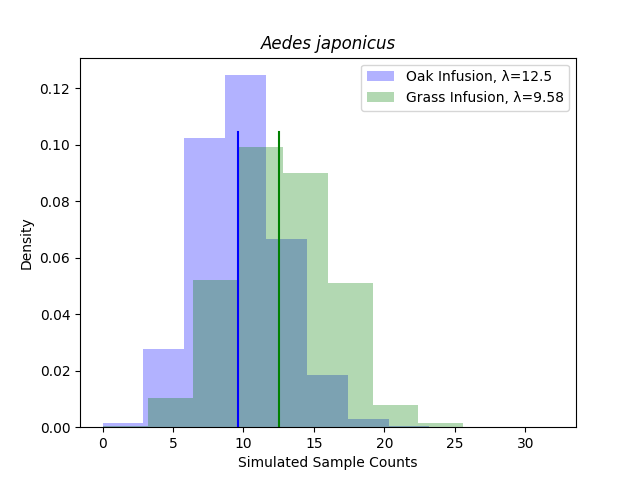
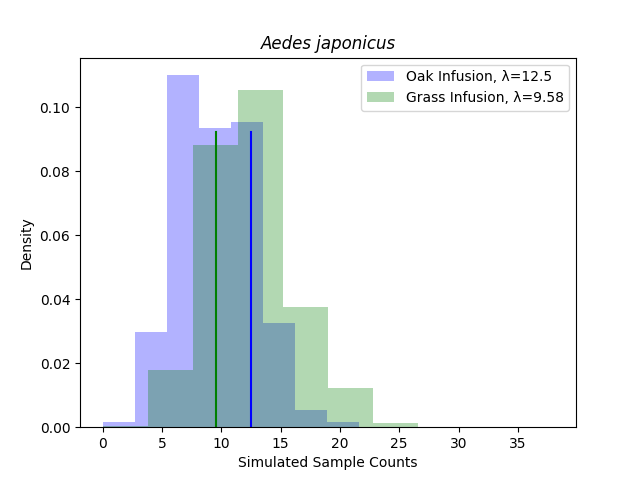
fixed an error that reversed lambdas on figure legends

diff --git a/src/japonicus.py b/src/japonicus.py
@@ -15,7 +15,7 @@ rate_2 = np.random.poisson(lambda_estimate_grass1, 1000000)
 
 bins = np.arange(0, 40)
 
-plt.hist(japonicus.oak_by_date, bins=bins, color='blue', alpha=0.3, label=f'Oak Data', density=True)
+plt.hist(japonicus.oak_by_date, bins=bins, color='blue', alpha=0.3, label=f'Oak Data (n={len(japonicus.oak_data)})', density=True)
 plt.hist(rate_1, color='green', bins=bins, alpha=0.3, label=f'Simulated Oak Data, \u03BB={round(lambda_estimate_oak1, 2)}', density=True)
 plt.axvline(lambda_estimate_oak1, color='blue', ymax=0.8)
 plt.title("Aedes japonicus", style='italic')
@@ -25,7 +25,7 @@ plt.legend()
 plt.savefig(f"../figs/japonicus/japonicus_poisson_histogram_emp_data_oak_fig_a.png")
 plt.clf()
 
-plt.hist(japonicus.grass_by_date, bins=bins, color='blue', alpha=0.3, label=f'Grass Data', density=True)
+plt.hist(japonicus.grass_by_date, bins=bins, color='blue', alpha=0.3, label=f'Grass Data (n={len(japonicus.grass_data)})', density=True)
 plt.hist(rate_2, color='green', bins=bins, alpha=0.3, label=f'Simulated Grass Data, \u03BB={round(lambda_estimate_grass1, 2)}', density=True)
 plt.axvline(lambda_estimate_grass1, color='blue', ymax=0.8)
 plt.title("Aedes japonicus", style='italic')
@@ -38,8 +38,8 @@ plt.clf()
 
 plt.hist(rate_1, color='blue', alpha=0.3, label=f'Oak Infusion, \u03BB={round(lambda_estimate_grass1, 2)}', density=True)
 plt.hist(rate_2, color='green', alpha=0.3, label=f'Grass Infusion, \u03BB={round(lambda_estimate_oak1, 2)}', density=True)
-plt.axvline(lambda_estimate_grass1, color='green', ymax=0.8)
-plt.axvline(lambda_estimate_oak1, color='blue', ymax=0.8)
+plt.axvline(lambda_estimate_oak1, color='green', ymax=0.8)
+plt.axvline(lambda_estimate_grass1, color='blue', ymax=0.8)
 plt.title("Aedes japonicus", style='italic')
 plt.xlabel('Simulated Sample Counts')
 plt.ylabel('Density')

diff --git a/src/triseriatus.py b/src/triseriatus.py
@@ -15,7 +15,7 @@ rate_2 = np.random.poisson(lambda_estimate_grass1, 1000000)
 
 bins = np.arange(0, 40)
 
-plt.hist(triseriatus.oak_by_date, bins=bins, color='blue', alpha=0.3, label=f'Oak Data', density=True)
+plt.hist(triseriatus.oak_by_date, bins=bins, color='blue', alpha=0.3, label=f'Oak Data (n={len(triseriatus.oak_data)})', density=True)
 plt.hist(rate_1, color='green', bins=bins, alpha=0.3, label=f'Simulated Oak Data, \u03BB={round(lambda_estimate_oak1, 2)}', density=True)
 plt.axvline(lambda_estimate_oak1, color='blue', ymax=0.8)
 plt.title("Aedes triseriatus")
@@ -25,7 +25,7 @@ plt.legend()
 plt.savefig(f"../figs/triseriatus/triseriatus_poisson_histogram_emp_data_oak_fig_a.png")
 plt.clf()
 
-plt.hist(triseriatus.grass_by_date, bins=bins, color='blue', alpha=0.3, label=f'Grass Data', density=True)
+plt.hist(triseriatus.grass_by_date, bins=bins, color='blue', alpha=0.3, label=f'Grass Data (n={len(triseriatus.grass_data)})', density=True)
 plt.hist(rate_2, color='green', bins=bins, alpha=0.3, label=f'Simulated Grass Data, \u03BB={round(lambda_estimate_grass1, 2)}', density=True)
 plt.axvline(lambda_estimate_grass1, color='blue', ymax=0.8)
 plt.title("Aedes triseriatus")
@@ -38,8 +38,8 @@ plt.clf()
 
 plt.hist(rate_1, color='blue', alpha=0.3, label=f'Oak Infusion, \u03BB={round(lambda_estimate_grass1, 2)}', density=True)
 plt.hist(rate_2, color='green', alpha=0.3, label=f'Grass Infusion, \u03BB={round(lambda_estimate_oak1, 2)}', density=True)
-plt.axvline(lambda_estimate_grass1, color='green', ymax=0.8)
-plt.axvline(lambda_estimate_oak1, color='blue', ymax=0.8)
+plt.axvline(lambda_estimate_oak1, color='green', ymax=0.8)
+plt.axvline(lambda_estimate_grass1, color='blue', ymax=0.8)
 plt.title("Aedes triseriatus", style='italic')
 plt.xlabel('Simulated Sample Counts')
 plt.ylabel('Density')

diff --git a/src/restuans.py b/src/restuans.py
@@ -15,7 +15,7 @@ rate_2 = np.random.poisson(lambda_estimate_grass1, 1000000)
 
 bins = np.arange(0, 40)
 
-plt.hist(restuans.oak_by_date, bins=bins, color='blue', alpha=0.3, label=f'Oak Data', density=True)
+plt.hist(restuans.oak_by_date, bins=bins, color='blue', alpha=0.3, label=f'Oak Data (n={len(restuans.oak_data)})', density=True)
 plt.hist(rate_1, color='green', bins=bins, alpha=0.3, label=f'Simulated Oak Data, \u03BB={round(lambda_estimate_oak1, 2)}', density=True)
 plt.axvline(lambda_estimate_oak1, color='blue', ymax=0.8)
 plt.title("Culex restuans", style='italic')
@@ -25,7 +25,7 @@ plt.legend()
 plt.savefig(f"../figs/restuans/restuans_poisson_histogram_emp_data_oak_fig_a.png")
 plt.clf()
 
-plt.hist(restuans.grass_by_date, bins=bins, color='blue', alpha=0.3, label=f'Grass Data', density=True)
+plt.hist(restuans.grass_by_date, bins=bins, color='blue', alpha=0.3, label=f'Grass Data (n={len(restuans.grass_data)})', density=True)
 plt.hist(rate_2, color='green', bins=bins, alpha=0.3, label=f'Simulated Grass Data, \u03BB={round(lambda_estimate_grass1, 2)}', density=True)
 plt.axvline(lambda_estimate_grass1, color='blue', ymax=0.8)
 plt.title("Culex restuans", style='italic')
@@ -38,8 +38,8 @@ plt.clf()
 
 plt.hist(rate_1, color='blue', alpha=0.3, label=f'Oak Infusion, \u03BB={round(lambda_estimate_grass1, 2)}', density=True)
 plt.hist(rate_2, color='green', alpha=0.3, label=f'Grass Infusion, \u03BB={round(lambda_estimate_oak1, 2)}', density=True)
-plt.axvline(lambda_estimate_grass1, color='green', ymax=0.8)
-plt.axvline(lambda_estimate_oak1, color='blue', ymax=0.8)
+plt.axvline(lambda_estimate_oak1, color='green', ymax=0.8)
+plt.axvline(lambda_estimate_grass1, color='blue', ymax=0.8)
 plt.title("Culex restuans", style='italic')
 plt.xlabel('Simulated Sample Counts')
 plt.ylabel('Density')
